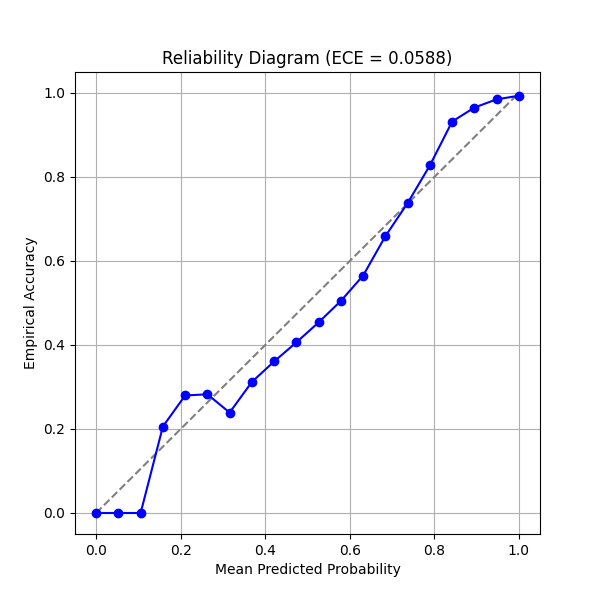
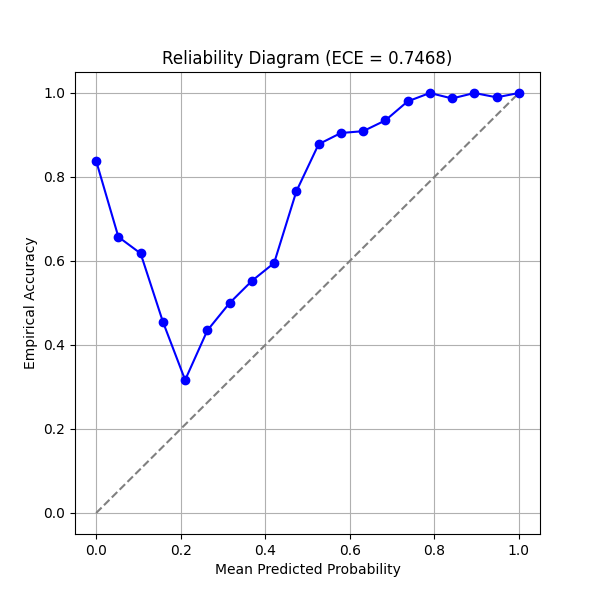
updated params model

diff --git a/lotteryticket/main.py b/lotteryticket/main.py
@@ -29,9 +29,9 @@ class MLP(nn.Module):
     def __init__(self):
         super(MLP, self).__init__()
         self.flatten = nn.Flatten()
-        self.fc1 = nn.Linear(28 * 28, 128)
+        self.fc1 = nn.Linear(28 * 28, 512)
         self.relu = nn.ReLU()
-        self.fc2 = nn.Linear(128, 10)
+        self.fc2 = nn.Linear(512, 10)
 
     def update_layers(self, new_layers):
         for i, new_layer in enumerate(new_layers):
@@ -49,9 +49,9 @@ class MLP(nn.Module):
 model = MLP()      
 optimizer = optim.Adam(model.parameters(), lr=0.001)
 criterion = nn.CrossEntropyLoss()
-epochs = 10
+epochs = 5
 untrained_model = copy.deepcopy(model)
-ut.train(model, train_loader, criterion, optimizer, epochs = 10)
+ut.train(model, train_loader, criterion, optimizer, epochs = 5)
 
 # Evaluation on the test set
 unpruned_accuracy = ut.calculate_accuracy(model, test_loader)
@@ -61,7 +61,7 @@ print(f"ECE on the test set (Unpruned): {unpruned_ece}")
 
 # Iterative pruning Lottery Ticket Hypothesis
 # Iterative Pruning strategy 2 as defined in Lotetry Ticket Hypothesis paper
-def iterative_reinit_pruning( model, input_shape, output_shape, train_loader, prune_ratio, prune_iter, max_iter = 10):
+def iterative_reinit_pruning( model, input_shape, output_shape, train_loader, prune_ratio, prune_iter, max_iter = 5):
     
      # Per round pune ratio and number of epochs for every fine tuning
     per_round_prune_ratio = prune_ratio/prune_iter
@@ -79,8 +79,7 @@ def iterative_reinit_pruning( model, input_shape, output_shape, train_loader, pr
     return model
 
 # Plot Accuracy vs Pruning Ratio
-num_prune_iter = 10
-pruning_ratios = np.linspace(0, 0.9, num_prune_iter)
+pruning_ratios = np.arange(.8, 1.0, .02)
 oneshot_pruning_accuracies = []
 oneshot_pruning_ece = []
 oneshot_reinit_pruning_accuracies = []
@@ -96,14 +95,14 @@ for prune_ratio in pruning_ratios:
 
     # Iterative pruning accuracy
     iterative_pruning_model = copy.deepcopy(untrained_model)
-    iterative_pruning_model = ut.iterative_pruning(iterative_pruning_model, input_shape = 28*28, output_shape = 10, train_loader = train_loader, prune_ratio = prune_ratio, prune_iter = 5, max_iter = 10)
+    iterative_pruning_model = ut.iterative_pruning(iterative_pruning_model, input_shape = 28*28, output_shape = 10, train_loader = train_loader, prune_ratio = prune_ratio, prune_iter = 5, max_iter = 5)
     iterative_pruning_accuracies.append(ut.calculate_accuracy(iterative_pruning_model, test_loader))
     # Iterative pruning ECE
     iterative_pruning_ece.append(ut.expected_calibration_error(iterative_pruning_model, test_loader,'results/MNIST/iterative/iterative'+str(prune_ratio)+'.png'))
 
     # Iterative pruning strategy 2 accuracy
     iterative_reinit_pruning_model = copy.deepcopy(untrained_model)
-    iterative_reinit_pruning_model = iterative_reinit_pruning(iterative_reinit_pruning_model, input_shape = 28*28, output_shape = 10, train_loader = train_loader, prune_ratio = prune_ratio, prune_iter = 5, max_iter = 10)
+    iterative_reinit_pruning_model = iterative_reinit_pruning(iterative_reinit_pruning_model, input_shape = 28*28, output_shape = 10, train_loader = train_loader, prune_ratio = prune_ratio, prune_iter = 5, max_iter = 5)
     iterative_reinit_pruning_accuracies.append(ut.calculate_accuracy(iterative_reinit_pruning_model, test_loader))
     # Iterative pruning ECE
     iterative_reinit_pruning_ece.append(ut.expected_calibration_error(iterative_reinit_pruning_model, test_loader,'results/MNIST/iterative_reinit/iterative_reinit'+str(prune_ratio)+'.png'))
@@ -121,20 +120,20 @@ for prune_ratio in pruning_ratios:
     unpruned_layers = ut.oneshot_reinit_pruning(one_shot_reinit_model, untrained_model, input_shape = 28*28, output_shape = 10, prune_ratio = prune_ratio)
     one_shot_reinit_model.update_layers(unpruned_layers)
     # Retrain the model
-    ut.train(one_shot_reinit_model, train_loader, criterion, optimizer, epochs = 10) 
+    ut.train(one_shot_reinit_model, train_loader, criterion, optimizer, epochs = 5) 
     oneshot_reinit_pruning_accuracies.append(ut.calculate_accuracy(one_shot_reinit_model, test_loader))
     # One-shot pruning ECE
     oneshot_reinit_pruning_ece.append(ut.expected_calibration_error(one_shot_reinit_model, test_loader, 'results/MNIST/oneshot_reinit/oneshot_reinit'+str(prune_ratio)+'.png'))
 
     # One-shot random reinit pruning accuracy
-    torch.manual_seed(19)
+    torch.manual_seed(30)
     random_model = MLP()
     torch.manual_seed(42)
     one_shot_random_reinit_model = copy.deepcopy(model)
     unpruned_layers = ut.oneshot_reinit_pruning(one_shot_random_reinit_model, random_model, input_shape = 28*28, output_shape = 10, prune_ratio = prune_ratio)
     one_shot_random_reinit_model.update_layers(unpruned_layers)
     # Retrain the model
-    ut.train(one_shot_random_reinit_model, train_loader, criterion, optimizer, epochs = 10) 
+    ut.train(one_shot_random_reinit_model, train_loader, criterion, optimizer, epochs = 5) 
     oneshot_random_reinit_pruning_accuracies.append(ut.calculate_accuracy(one_shot_random_reinit_model, test_loader))
     # One-shot pruning ECE
     oneshot_random_reinit_pruning_ece.append(ut.expected_calibration_error(one_shot_random_reinit_model, test_loader, 'results/MNIST/oneshotrandom_reinit/oneshotrandom_reinit'+str(prune_ratio)+'.png'))

diff --git a/lotteryticket/util.py b/lotteryticket/util.py
@@ -7,8 +7,6 @@ import pandas as pd
 import torch.nn.functional as F
 import copy
 
-
-
 # Defining Accuracy
 def calculate_accuracy(model, test_loader):
     model.eval()
@@ -23,7 +21,7 @@ def calculate_accuracy(model, test_loader):
     return (100 * correct / total) 
 
 # Training loop
-def train(model, train_loader, criterion, optimizer, epochs=10):
+def train(model, train_loader, criterion, optimizer, epochs=5):
     criterion = nn.CrossEntropyLoss()
     optimizer = optim.Adam(model.parameters(), lr=0.001)
     for epoch in range(epochs):
@@ -65,6 +63,7 @@ def expected_calibration_error(model, test_loader, title, M=20):
             output = model(data)
             output = F.softmax(output, dim=1)
             _, predicted = torch.max(output.data, 1)
+            _ = output[:,5] # get the confidence of label 5 
             predicted_labels.append(predicted)
             true_labels.append(target)
             confidences.append(_)
@@ -167,7 +166,7 @@ def oneshot_reinit_pruning( model, untrained_model, input_shape, output_shape, p
 # The accuracy drops after pruning so we fine tune the model
 def iterative_pruning( model, input_shape, output_shape, train_loader, prune_ratio, prune_iter, max_iter = 10):
     
-     # Per round pune ratio and number of epochs for every fine tuning
+    # Per round pune ratio and number of epochs for every fine tuning
     per_round_prune_ratio = prune_ratio/prune_iter
     if prune_ratio > 0:
         per_round_prune_ratio = 1 - (1 - prune_ratio) ** (1 / prune_iter)
